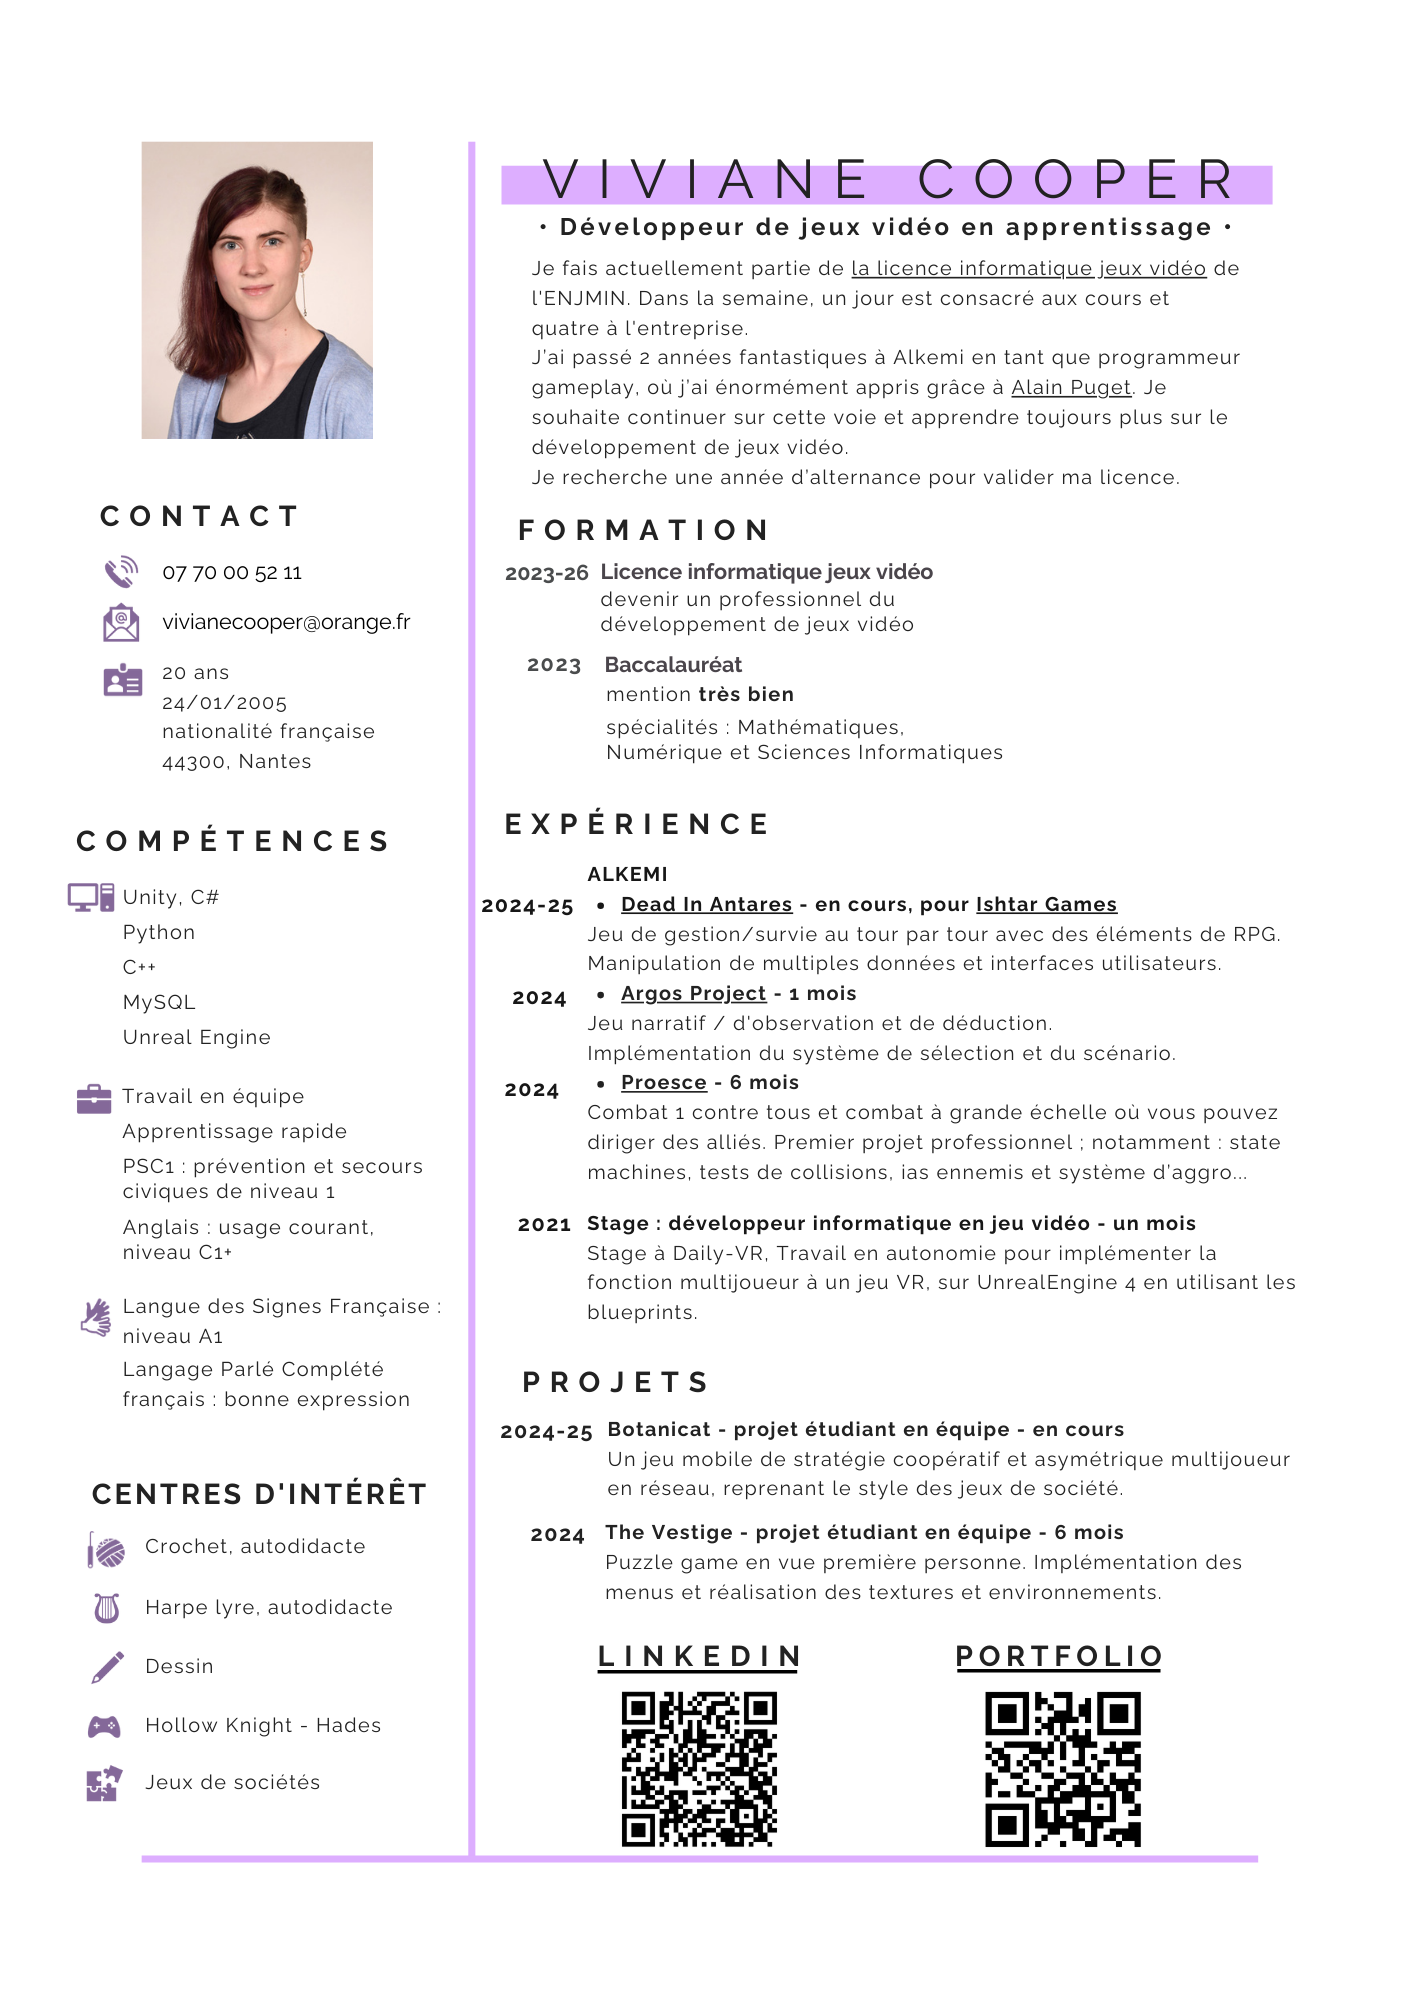
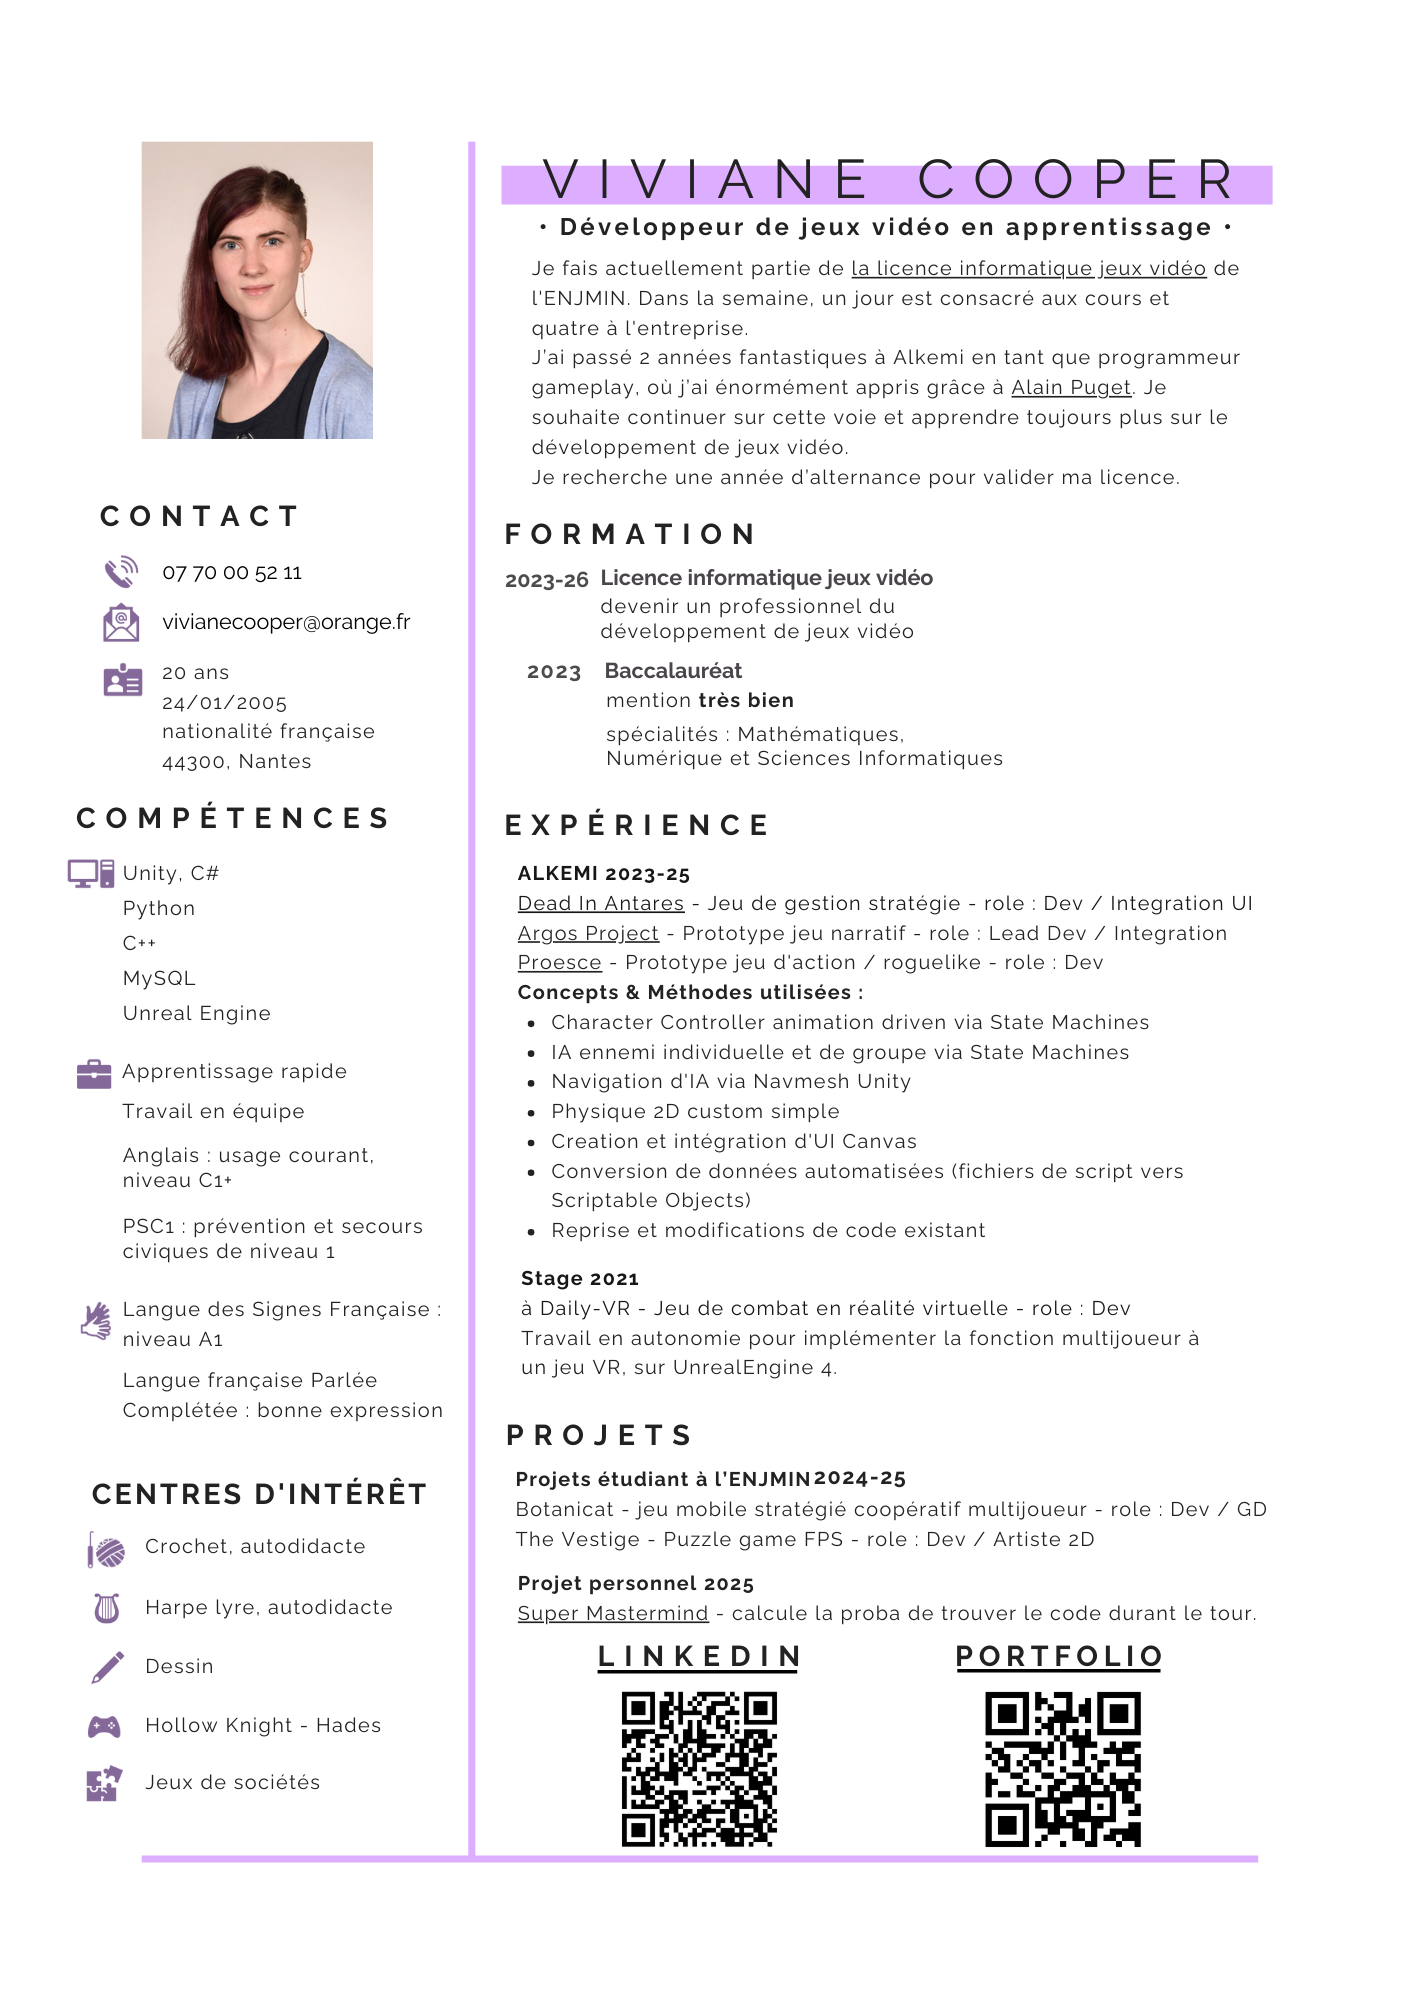
better descriptions + better CV

diff --git a/index.html b/index.html
@@ -40,9 +40,11 @@
 						<a href="https://store.steampowered.com/app/2511800/Dead_in_Antares/">Page Steam</a>
 						<br>
 						<br>
-						Ma contribution :<br>
-						&nbsp;&nbsp;&nbsp;&nbsp;- manipulation de donnée<br>
-						&nbsp;&nbsp;&nbsp;&nbsp;- interfaces utilisateurs<br>
+						Role : Dev / Integration UI<br>
+						Concepts & Méthodes utilisées:<br>
+						&nbsp;&nbsp;&nbsp;&nbsp;- Creation et intégration d'UI Canvas<br>
+						&nbsp;&nbsp;&nbsp;&nbsp;- Conversion de données automatisées (fichiers de script vers Scriptable Objects)<br>
+						&nbsp;&nbsp;&nbsp;&nbsp;- Reprise et modifications de code existant<br>
 						
 					</p>
 				</div>
@@ -76,10 +78,7 @@
 						et leurs amis. Plus ils sont heureux, plus vous gagnez de points !
 						<br>
 						<br>
-						Ma contribution :<br>
-						&nbsp;&nbsp;&nbsp;&nbsp;- game design<br>
-						&nbsp;&nbsp;&nbsp;&nbsp;- UI (design et implémentation)<br>
-						&nbsp;&nbsp;&nbsp;&nbsp;- implémentation d'une partie du gameplay<br>
+						Role : dev gameplay / game designer / concept artist
 						
 					</p>
 				</div>
@@ -100,10 +99,8 @@
 						Un projet réalisé en 1 mois au sein d'Alkemi en 2024.<br>
 						Logiciel et langage : Unity C#<br>
 						<br>
-						Jeu narratif / d'observation et de déduction.<br><br>
-						Ma contribution au projet :<br>
-						&nbsp;&nbsp;&nbsp;&nbsp;- le système de sélection des objets<br>
-						&nbsp;&nbsp;&nbsp;&nbsp;- l'implémentation du scénario
+						Prototype jeu narratif / d'observation et de déduction.<br><br>
+						Role : Lead Dev / Integration<br>
 					</p>
 				</div>
 			</div>
@@ -124,13 +121,14 @@
 						Un projet réalisé en 6 mois au sein d'Alkemi en 2024.<br>
 						Logiciel et langage : Unity C#<br>
 						<br>
-						Combat 1 contre tous et combat à grande échelle où vous pouvez diriger des alliés.
-						<br>C'est le premier projet professionnel sur lequel j'ai travaillé.
-						J'ai notamment réalisé :<br>
-						&nbsp;&nbsp;&nbsp;&nbsp;- les states machines<br>
-						&nbsp;&nbsp;&nbsp;&nbsp;- les ias ennemis<br>
-						&nbsp;&nbsp;&nbsp;&nbsp;- le système d'agro<br>
-						&nbsp;&nbsp;&nbsp;&nbsp;- les tests de collisions<br>
+						Prototype jeu d'action / roguelike. Il s'agit du premier projet professionnel sur lequel j'ai travaillé.
+						<br><br>
+						Role : Dev<br>
+						Concepts & Méthodes utilisées:<br>
+						&nbsp;&nbsp;&nbsp;&nbsp;- Character Controller animation driven via State Machines<br>
+						&nbsp;&nbsp;&nbsp;&nbsp;- IA ennemi individuelle et de groupe via State Machines<br>
+						&nbsp;&nbsp;&nbsp;&nbsp;- Navigation d'IA via Navmesh Unity<br>
+						&nbsp;&nbsp;&nbsp;&nbsp;- Physique 2D custom simple<br>
 					</p>
 				</div>
 			</div>
@@ -161,11 +159,7 @@
 						variés permettant d'utiliser la capacité principale de notre personnage sous tous ses aspects.
 						<br>
 						<br>
-						Ma contribution :<br>
-						&nbsp;&nbsp;&nbsp;&nbsp;- les menus<br>
-						&nbsp;&nbsp;&nbsp;&nbsp;- les textures<br>
-						&nbsp;&nbsp;&nbsp;&nbsp;- environnement<br>
-						
+						Role : Dev UI et gameplay / Artiste 2D
 					</p>
 				</div>
 			</div>
@@ -201,15 +195,19 @@
 					<button class="next">&#10095;</button>
 				</div>
 				<div class="text">
-					<h4>Super Master Mind</h4>
+					<h4>Super Mastermind</h4>
 					<p>
 						Langages : python puis C#<br><br>
 						J'ai appris la programmation orientée objet en classe de NSI via le mastermind.
-						Je me suis ensuite amusée à créer une version qui affiche la probabilité de
+						Je me suis ensuite amusée à créer une version qui calcule la probabilité de
 						trouver le code secret durant le tour.<br>
 						Récemment j'ai réalisé que j'avais toutes les compétences nécessaires pour refaire ce
 						projet efficacement sur Unity et c'est ce que j'ai fait.<br>
 						Jouer au jeu : <a href="https://vivjrc.itch.io/mastermind">JOUER</a>
+						<br><br>
+						Concepts & Méthodes utilisées:<br>
+						&nbsp;&nbsp;&nbsp;&nbsp;- probabilité<br>
+						&nbsp;&nbsp;&nbsp;&nbsp;- dénombrement<br>
 					</p>                        
 				</div>
 			</div>
@@ -310,6 +308,10 @@
 							 <i>Hollow Knight</i> de Team Cherry. Dans un second temps j'ai créé en
 							python une interface graphique à l'aide du module Tkinter. J'ai imité le journal du chasseur
 							qui est un répertoire des différents ennemis du jeu. 
+							<br><br>
+							Concepts & Méthodes utilisées:<br>
+							&nbsp;&nbsp;&nbsp;&nbsp;- base de données<br>
+
 						</p>						
 					</div>
 				</div>
